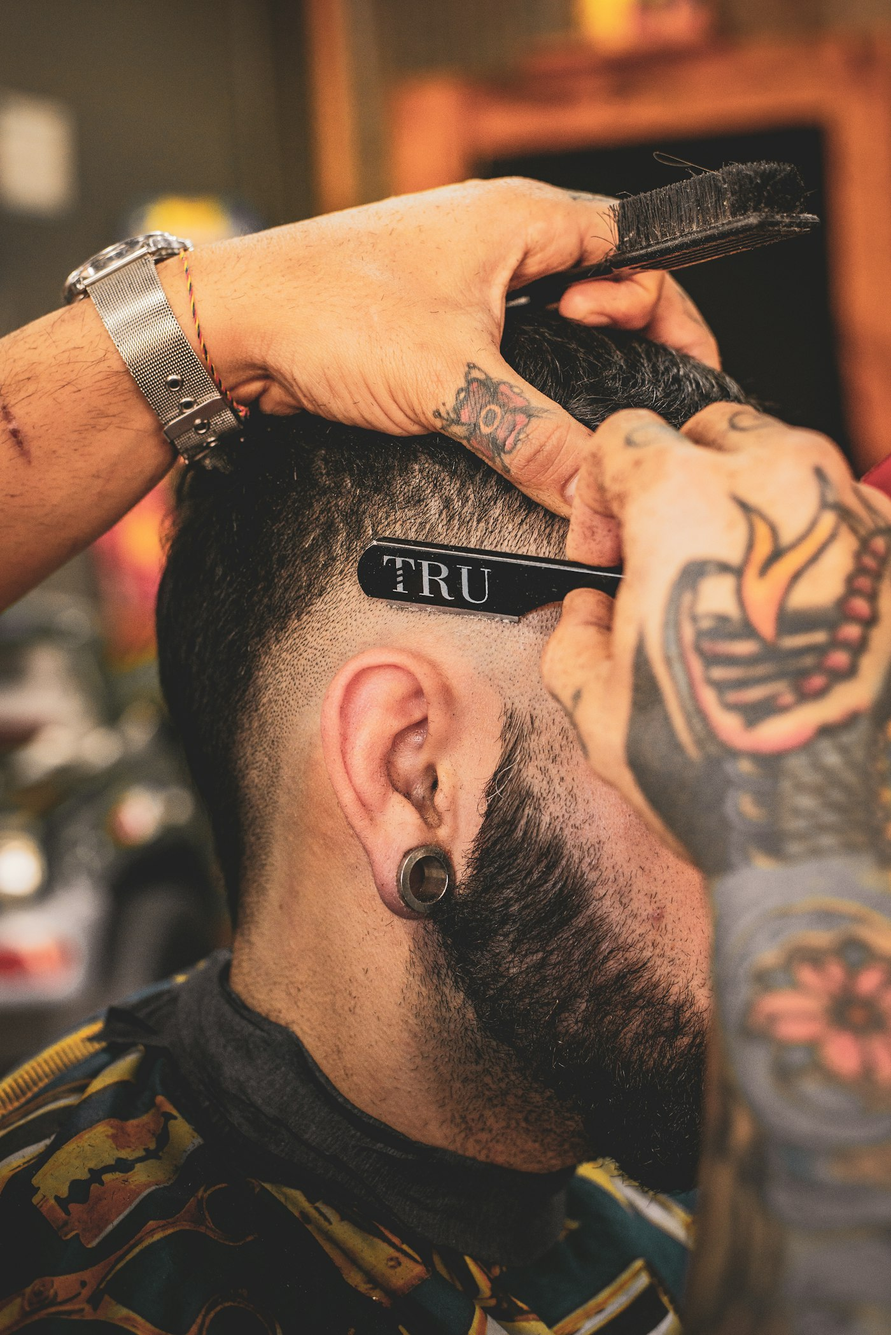
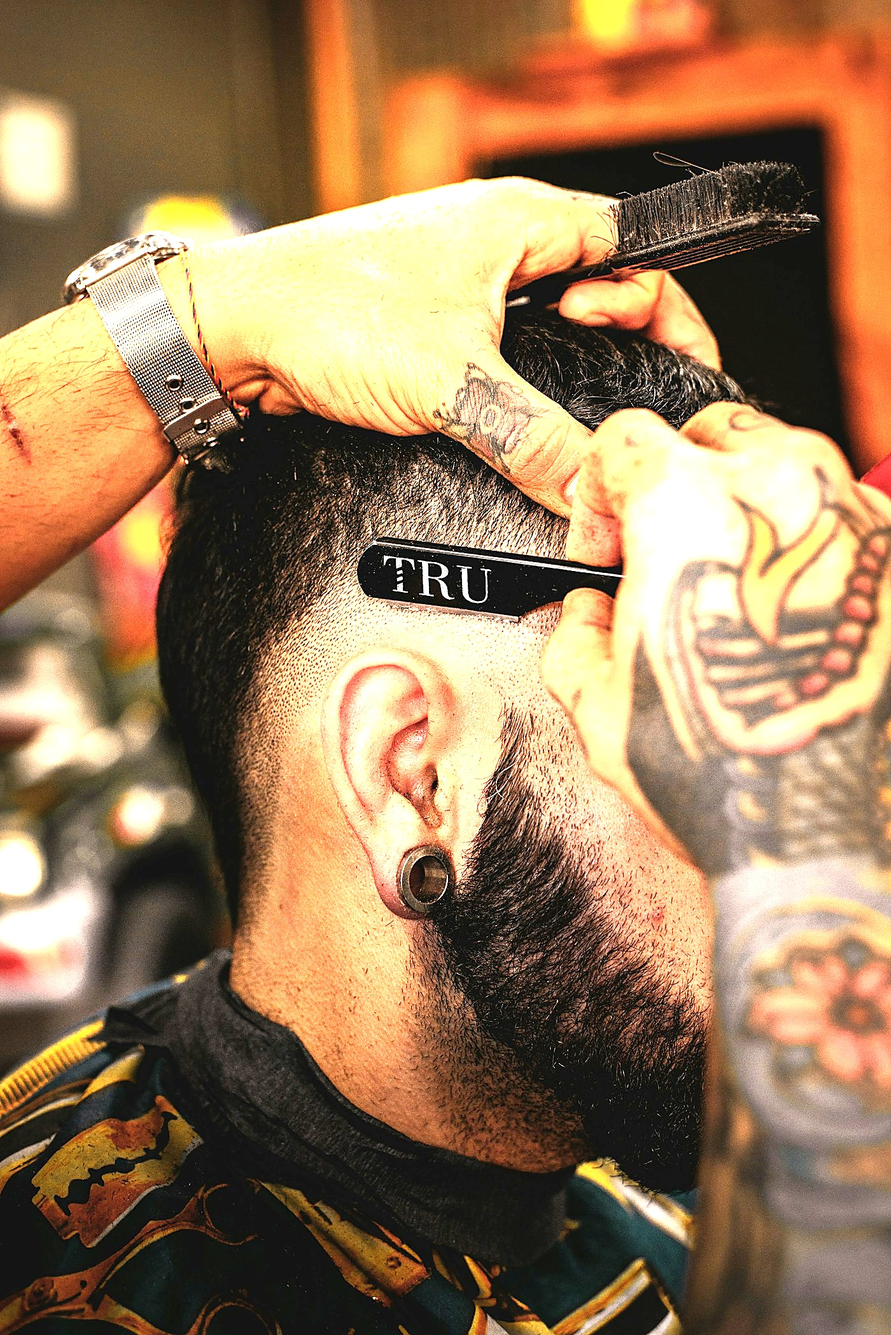
Corrigido: hero image opacity aumentado de 0.4 para 0.7 + imagem barber-hero.jpg melhorada (sharpen + brightness)

diff --git a/src/App.tsx b/src/App.tsx
@@ -376,7 +376,7 @@ export default function App() {
               height: '100%',
               objectFit: 'cover',
               objectPosition: 'center',
-              opacity: 0.4,
+              opacity: 0.7,
             }}
             loading="eager"
           />
